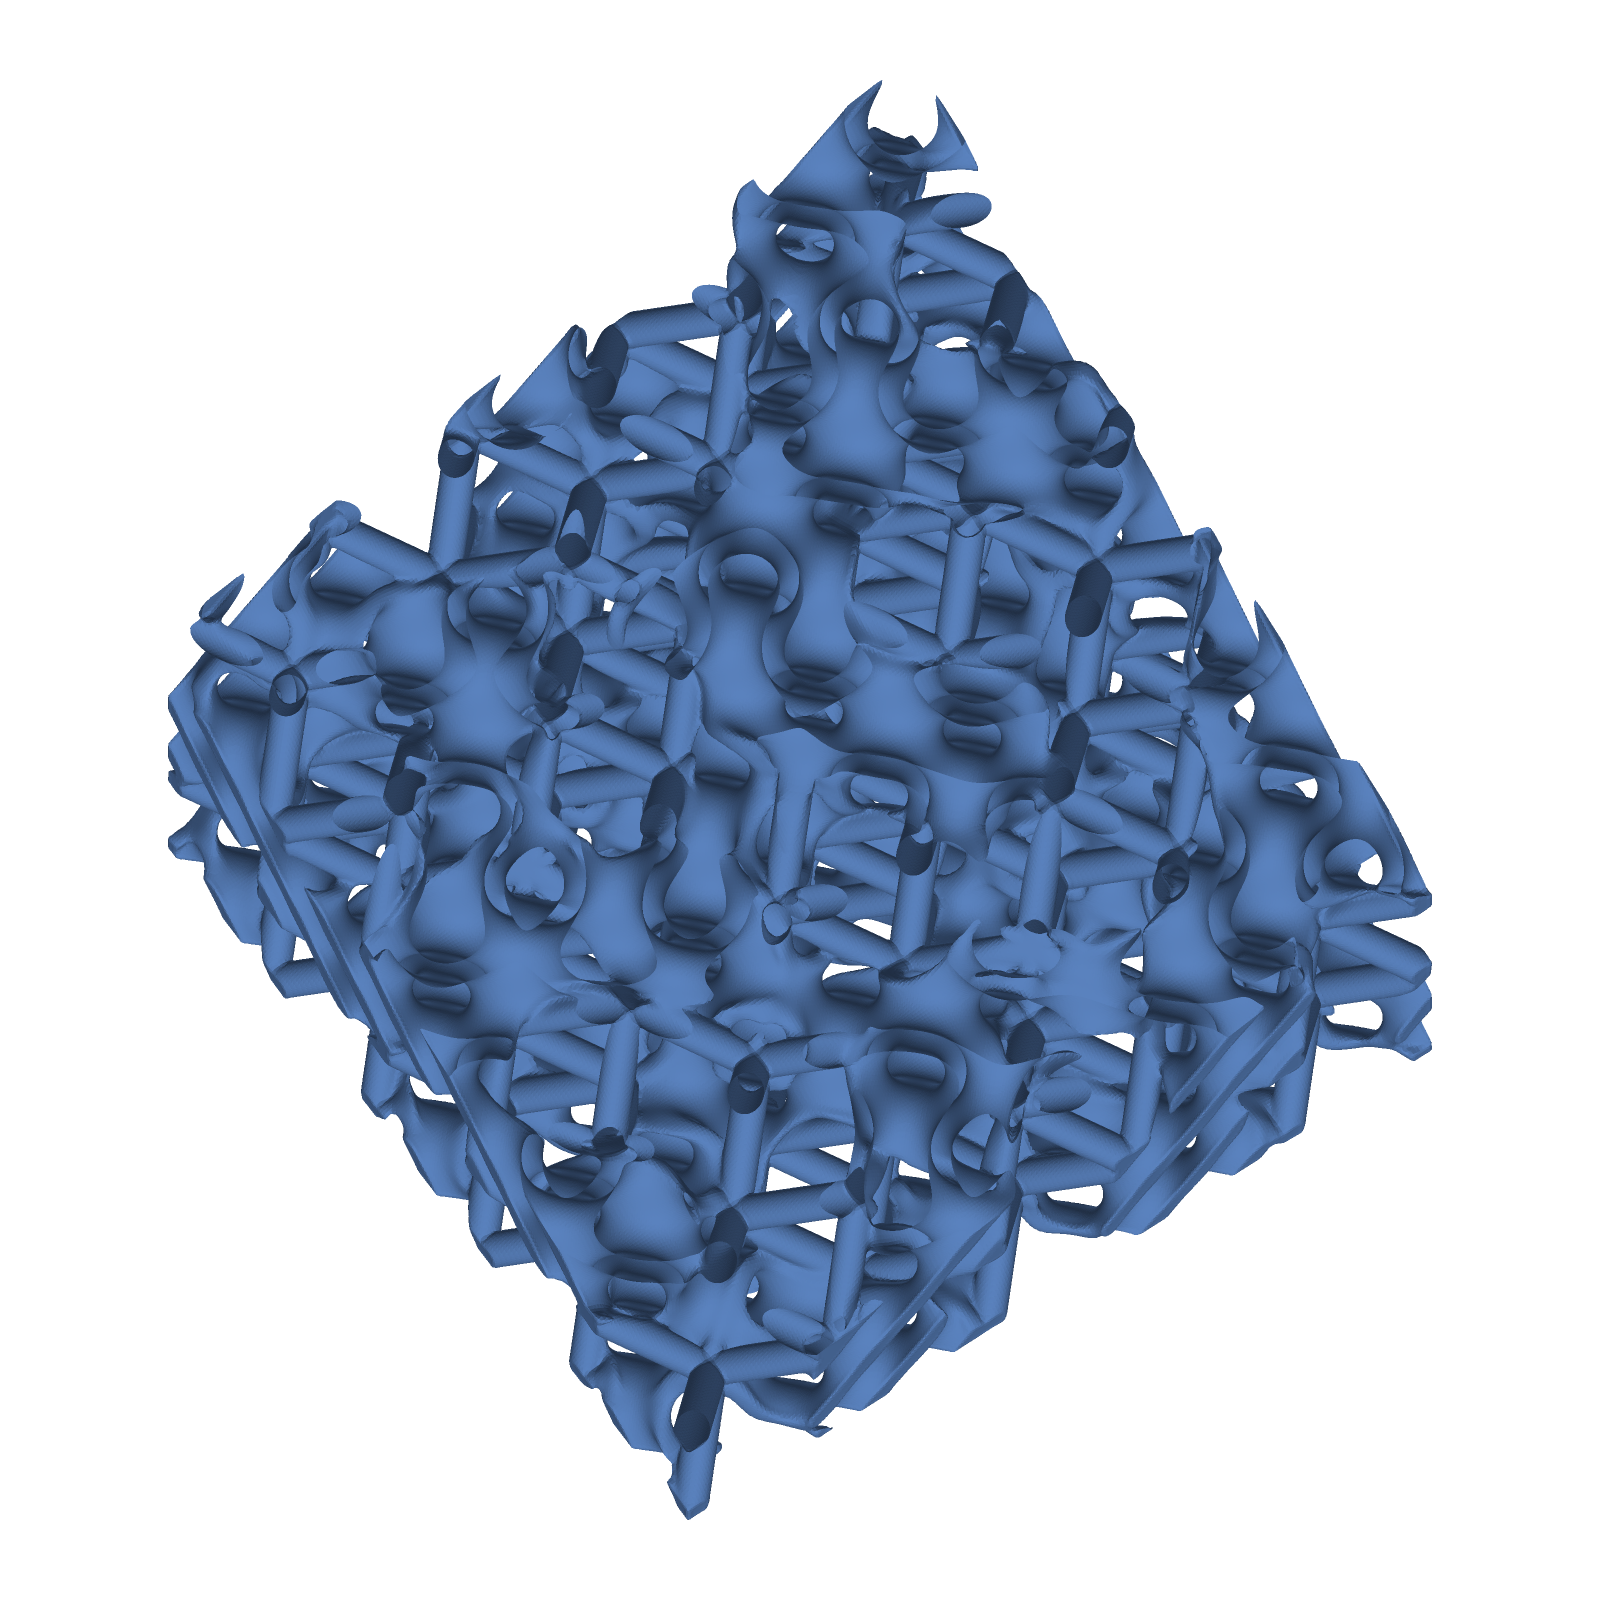
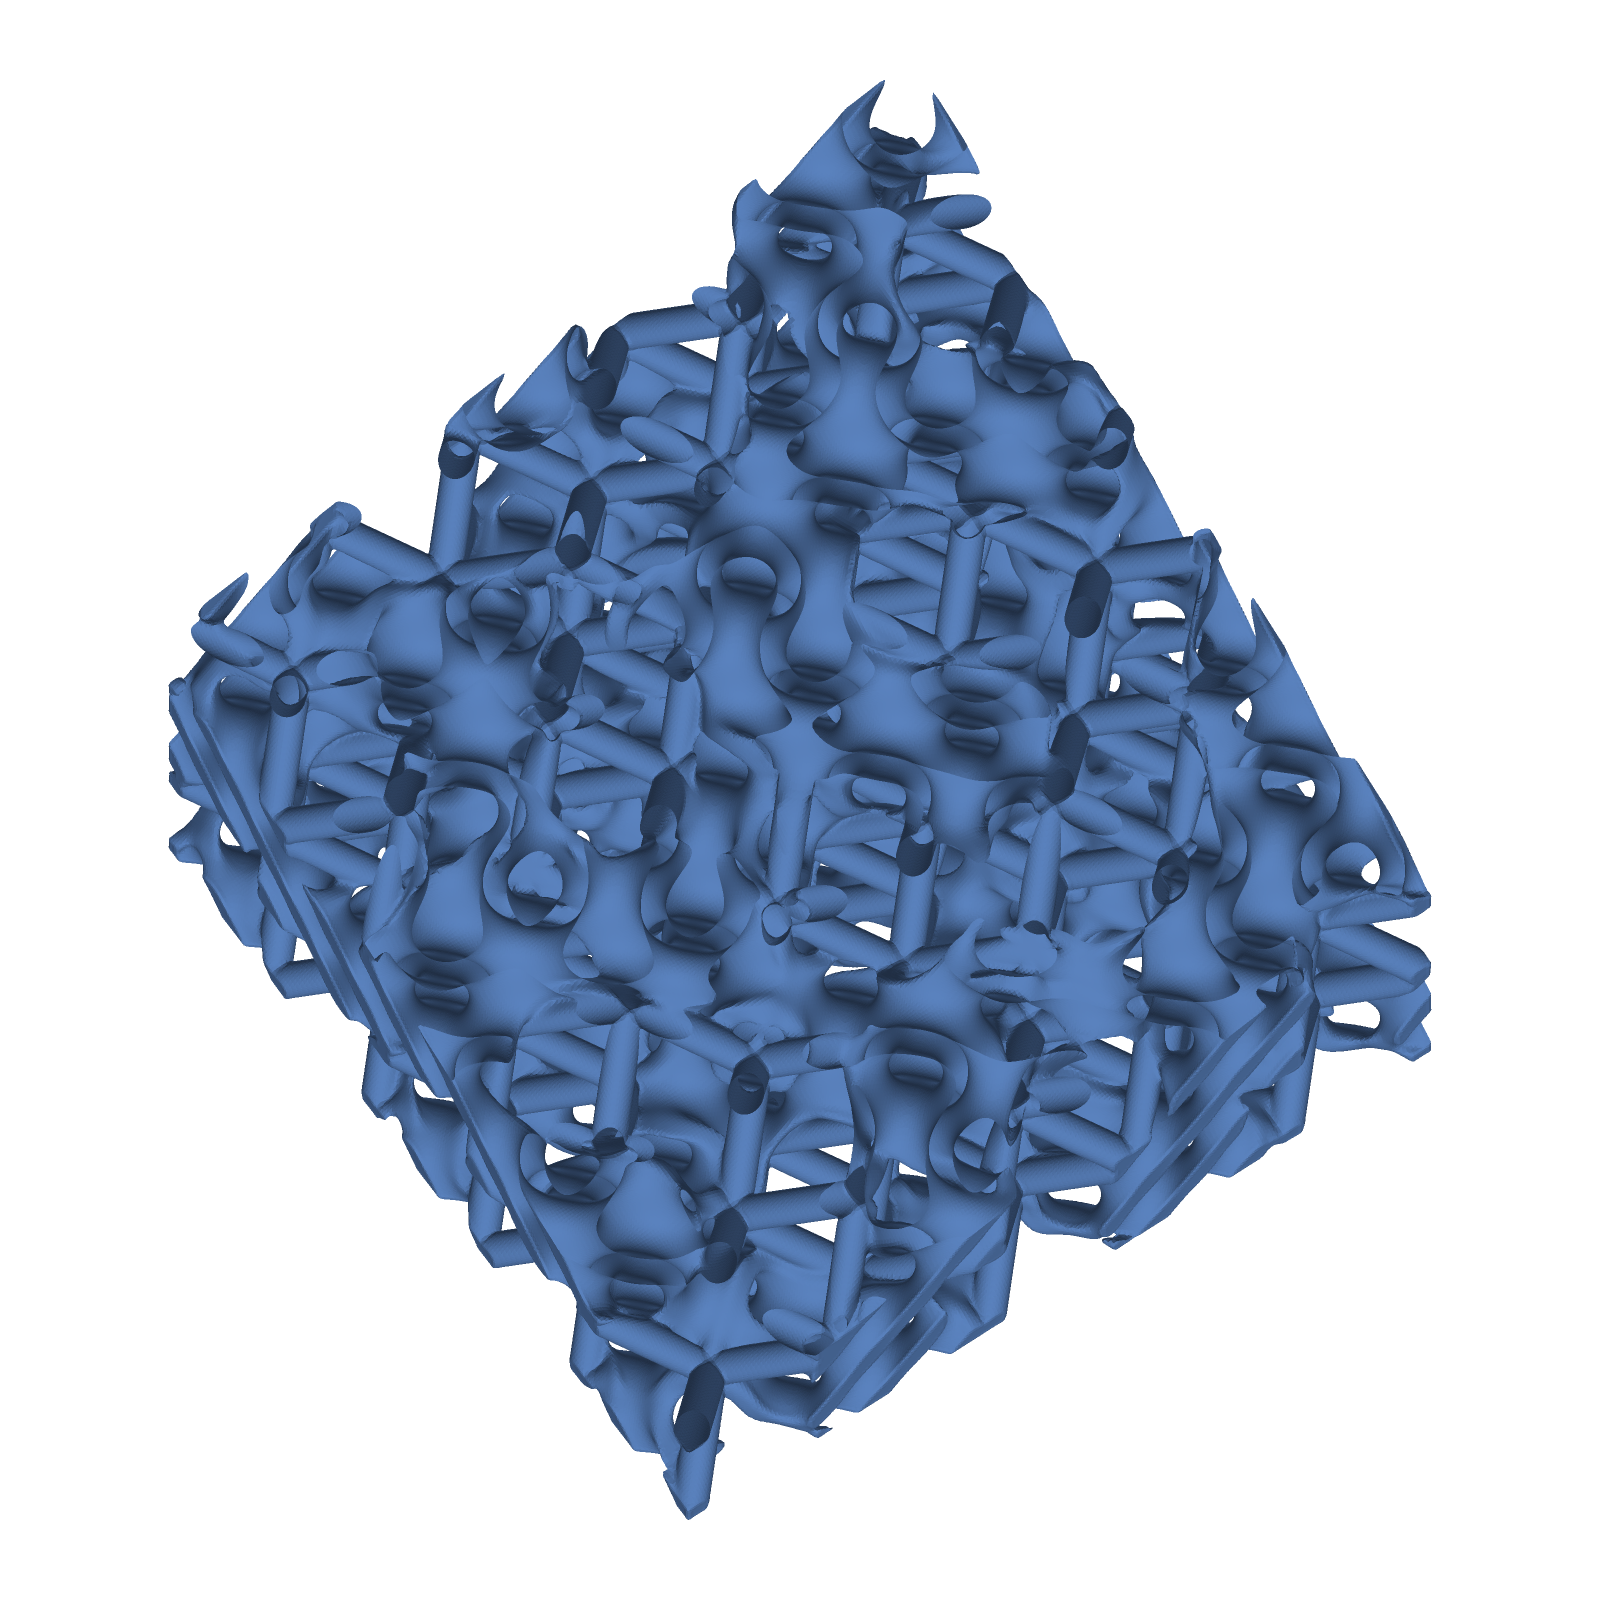
R9 at 256 cells: sheet wall 0.5 -> 0.6 mm (min wall 0.393 -> 0.443 mm, 1 solid, watertight); all 21 open entries pass. Fibre convention kept (user decision) and recorded.
- scripts/structure_gallery.ts: deep_R9_gated uses sheet_wall_mm 0.6 only at RES=256
- scripts/r9_thickness_probe.ts: probe with the gallery's own evaluateSpec (0.5/0.55/0.6/0.65 tried)
- examples/structure_gallery_r9_open_256: regenerated entry, README records the change
- docs: fibre decision recorded; gallery README updated

diff --git a/scripts/structure_gallery.ts b/scripts/structure_gallery.ts
@@ -198,7 +198,7 @@ const COUPLED_ENTRIES: Entry[] = [
   { id: "deep_R6_morph", group: "coupled", title: "R6 morph: gyroid sheet core morphs radially into a BCC strut shell", prompt: "coupled R6: gyroid core morphing into bcc lattice shell", make: () => coupledSpec("R6") },
   { id: "deep_R7_grading", group: "coupled", title: "R7 grading: gyroid period grows from 3 to 7 mm with height", prompt: "coupled R7: gyroid period graded along z", make: () => coupledSpec("R7") },
   { id: "deep_R8_radius", group: "coupled", title: "R8 radius: BCC strut radius set by a gyroid field", prompt: "coupled R8: bcc strut radius driven by gyroid field", make: () => coupledSpec("R8") },
-  { id: "deep_R9_gated", group: "coupled", title: "R9 gated: Schwarz D sheet and BCC lattice interpenetrate, gated by a gyroid", prompt: "coupled R9: schwarz D sheet and bcc lattice gated by gyroid", make: () => coupledSpec("R9") },
+  { id: "deep_R9_gated", group: "coupled", title: "R9 gated: Schwarz D sheet and BCC lattice interpenetrate, gated by a gyroid", prompt: "coupled R9: schwarz D sheet and bcc lattice gated by gyroid", make: () => coupledSpec("R9", RES === 256 ? { sheet_wall_mm: 0.6 } : {}) },  // 256: sheet 0.5 -> 0.6 mm (min wall 0.393 < 0.4 floor; see README)
   { id: "deep_R10_dominance", group: "coupled", title: "R10 gated dominance: sheet and BCC lattice both present, the gyroid gate sets which is thick", prompt: "coupled R10: sheet and bcc lattice both present, gyroid gate sets dominance", make: () => coupledSpec("R10") },
   { id: "deep_R11_level", group: "coupled", title: "R11 gate-set iso-level: one gyroid whose volume fraction is set by a gate field", prompt: "coupled R11: gyroid iso-level set by a gate field", make: () => coupledSpec("R11") },
   { id: "deep_R12_onesided", group: "coupled", title: "R12 one-sided gate-set iso-level: asymmetric volume coupling", prompt: "coupled R12: one-sided gate-set iso-level, net volume coupling", make: () => coupledSpec("R12") },

diff --git a/scripts/r9_thickness_probe.ts b/scripts/r9_thickness_probe.ts
@@ -1,0 +1,17 @@
+// Probe: R9 gated design at 256 cells, with coupled.params overridden. Uses the same evaluateSpec as the
+// gallery, so min_wall_thickness, components and volume are the gallery's own validator numbers.
+//   node --experimental-strip-types --no-warnings scripts/r9_thickness_probe.ts [sheet_wall_mm ...]
+import { readFileSync } from "node:fs";
+import { evaluateSpec } from "../src/evaluate.ts";
+
+const base = JSON.parse(readFileSync("examples/structure_gallery_r9_open_256/deep_R9_gated/design.json", "utf8")).design_spec;
+const values = process.argv.slice(2);
+const walls = values.length ? values.map(Number) : [0.5];
+for (const w of walls) {
+  const spec = structuredClone(base);
+  spec.coupled.params = { ...spec.coupled.params, sheet_wall_mm: w };
+  const ev = await evaluateSpec(spec);
+  const m = ev.validation.data.metrics;
+  console.log(JSON.stringify({ sheet_wall_mm: w, min_wall_mm: +m.min_wall_thickness.toFixed(4), components: m.components,
+    volume_mm3: +m.volume.toFixed(1), connectivity: m.connectivity, genus: m.genus }));
+}

diff --git a/examples/structure_gallery_r9_open_256/deep_R9_gated/design.ts b/examples/structure_gallery_r9_open_256/deep_R9_gated/design.ts
@@ -17,7 +17,7 @@ const heterogeneity_field = null;
 // ---- Design specification (IntentHarness output, with the constants above applied) ----------
 const spec: DesignSpec = {
   topology: "coupled",
-  coupled: {"round":"R9","params":{"skin_mm":0}} as unknown as NonNullable<DesignSpec["coupled"]>,
+  coupled: {"round":"R9","params":{"skin_mm":0,"sheet_wall_mm":0.6}} as unknown as NonNullable<DesignSpec["coupled"]>,
   
   
   bio_motif: "coupled:R9",

diff --git a/docs/BIOINSPIRED_GEOMETRY.md b/docs/BIOINSPIRED_GEOMETRY.md
@@ -83,14 +83,11 @@ The old 192-cell cylinder record had 9 plies, while its own unknowns said the st
 
 The four cellular base codes use Blender's Fracture Cell operator, which the upstream code calls as `bpy.ops.object.add_fracture_cell_objects`. The `bpy` 5.0.1 wheel does not contain the add-on: the run fails with "Add-on not loaded: object_fracture_cell" and "Calling operator ... could not be found". The record is in `docs/bio_upstream_bpy.jsonl` (status `not run`). Running them would need a Blender build that ships the add-on. The upstream random Voronoi also needs fixed seeds before realisations can be compared. The repo's cellular designs therefore cannot be compared with upstream geometry at present.
 
-## Decision needed
+## Decision (2026-10-22)
 
-The repo convention is a complete fibre lattice. The upstream arithmetic has notched corners. The choice is:
+The user chose to keep the repo convention (option 1 below). The fibre families stay 18–24 % above upstream. This is a documented, deliberate departure. No code change.
 
-1. **Keep** the repo convention (current). The fibre families are 18–24 % denser than upstream. This is documented here as a deliberate departure.
-2. **Revert** the fibre families to the upstream arithmetic (notched corners, about 15–20 % less volume), and keep the repo convention as an option.
-
-Either is a change in `src/bio/families.ts` plus regeneration of the fibre designs in each set. Option 1 needs no code change.
+The two options that were considered were: keep (chosen), or revert the fibre families to the upstream arithmetic (about 15–20 % less volume, a change in `src/bio/families.ts` plus regeneration of the fibre designs in each set).
 
 ## Reproduce
 

diff --git a/examples/structure_gallery_r9_open_256/README.md b/examples/structure_gallery_r9_open_256/README.md
@@ -1,10 +1,17 @@
 # R9 gated phases (open, 256 cells)
 
 New coupled round **R9** (`src/topology/coupled.ts`, `buildR9`): two structure families interpenetrate inside one
-field, gated by a third. A Schwarz D sheet (5 mm period, 0.5 mm wall) fills the side of a gyroid gate surface
+field, gated by a third. A Schwarz D sheet (5 mm period, **0.6 mm wall at this resolution**; the default is 0.5 mm) fills the side of a gyroid gate surface
 (8 mm period) where the gate is negative. A BCC strut lattice (4 mm cell, r = 0.4 mm) fills the side where it is
 positive. The two are joined by a rounded phase cut (smooth max) and a smooth union (0.3 mm blend), so there is no planar seam.
 This is not a boolean of two finished designs: each phase is clipped by the gate inside the field.
+
+**Printability fix (2026-10-22).** At 0.5 mm the design failed the 0.4 mm printability floor: min wall 0.393 mm, recorded as
+a failure with no automatic repair (coupled designs have none). The sheet wall was raised to 0.6 mm for this resolution only.
+Results: min wall 0.443 mm (about 0.04 mm above the floor, larger than the ±0.039 mm entry/exit error), 1 solid, watertight,
+volume 2345.8 mm³ (was 2099.0 mm³, +11.8 %), genus 1163 (was 1181). The 0.55 mm trial gave 0.426 mm (too close to the floor,
+inside the error). The 96 and 192 cell R9 entries keep the 0.5 mm default, since they already pass; their sheet is therefore
+thinner than this 256 cell entry. Probe: `scripts/r9_thickness_probe.ts`.
 
 Folder: `deep_R9_gated/` (`design.json`, `design.ts`, `screenshot.png` isometric, `view_top.png`, `view_front.png`,
 `view_side.png`). The design is open: no closed envelope skin (`skin_mm = 0`).

diff --git a/examples/structure_gallery/README.md b/examples/structure_gallery/README.md
@@ -49,7 +49,7 @@ These later coupled rounds are **not** in this folder. Each round has its own fo
 | R11 | gate-set iso-level of one gyroid | `../structure_gallery_r11_open_96/` | `../structure_gallery_r11_open_192/` | `../structure_gallery_r11_open_256/` |
 | R12 | one-sided gate-set iso-level | `../structure_gallery_r12_open_96/` | `../structure_gallery_r12_open_192/` | `../structure_gallery_r12_open_256/` |
 
-20 of 21 entries pass every check. All 21 are single-solid, watertight, and their MC volume agrees with the mesh volume. **Exception:** `deep_R9_gated` at 256 cells fails the RepairHarness check. Its minimum wall is 0.393 mm, below the 0.4 mm printability floor. The stored `unknowns` entry confirms this: "no automatic parameter for min wall 0.393 mm < floor 0.4 mm (coupled); needs user input or code-structure change". The repair step has no automatic move for coupled designs, so the repair history is empty. The design is recorded as failing and has not been changed. The renders are in each round's `deep_R*/screenshot.png` and `view_*.png`.
+All 21 entries pass every check: single solid, watertight, and MC volume agreeing with the mesh volume. `deep_R9_gated` at 256 cells originally failed the 0.4 mm printability floor (min wall 0.393 mm, no automatic repair for coupled designs). Its sheet wall was raised from 0.5 to 0.6 mm at 256 cells only; min wall is now 0.443 mm, and the design is recorded in `examples/structure_gallery_r9_open_256/README.md`. The renders are in each round's `deep_R*/screenshot.png` and `view_*.png`.
 
 ## Periodic lattices (with 1 mm envelope skin)
 

diff --git a/docs/BIOINSPIRED_VALIDATION.md b/docs/BIOINSPIRED_VALIDATION.md
@@ -32,7 +32,7 @@ Routing is a separate check, in `docs/BIOINSPIRED_COMPARISON.md`: 270 of 270 sin
 
 ## Open items
 
-1. Keep or revert the fibre-family extension (`aff94f9`), which adds 18–24 % over upstream. The user was asked; no answer was given. The repo convention is kept as the default, and it is documented as a deliberate departure. Reverting, or keeping both as labelled variants, is a user choice.
+1. Fibre convention: decided by the user (2026-10-22): keep the repo convention. The fibre families stay 18–24 % above upstream, documented as a deliberate departure in `docs/BIOINSPIRED_GEOMETRY.md`. No code change.
 2. Cellular base codes: not run. Needs a Blender build with the add-on, and fixed seeds for a realisation-level comparison.
 3. The repo's helical noise design is one random draw. It is not the upstream realisation.
 
